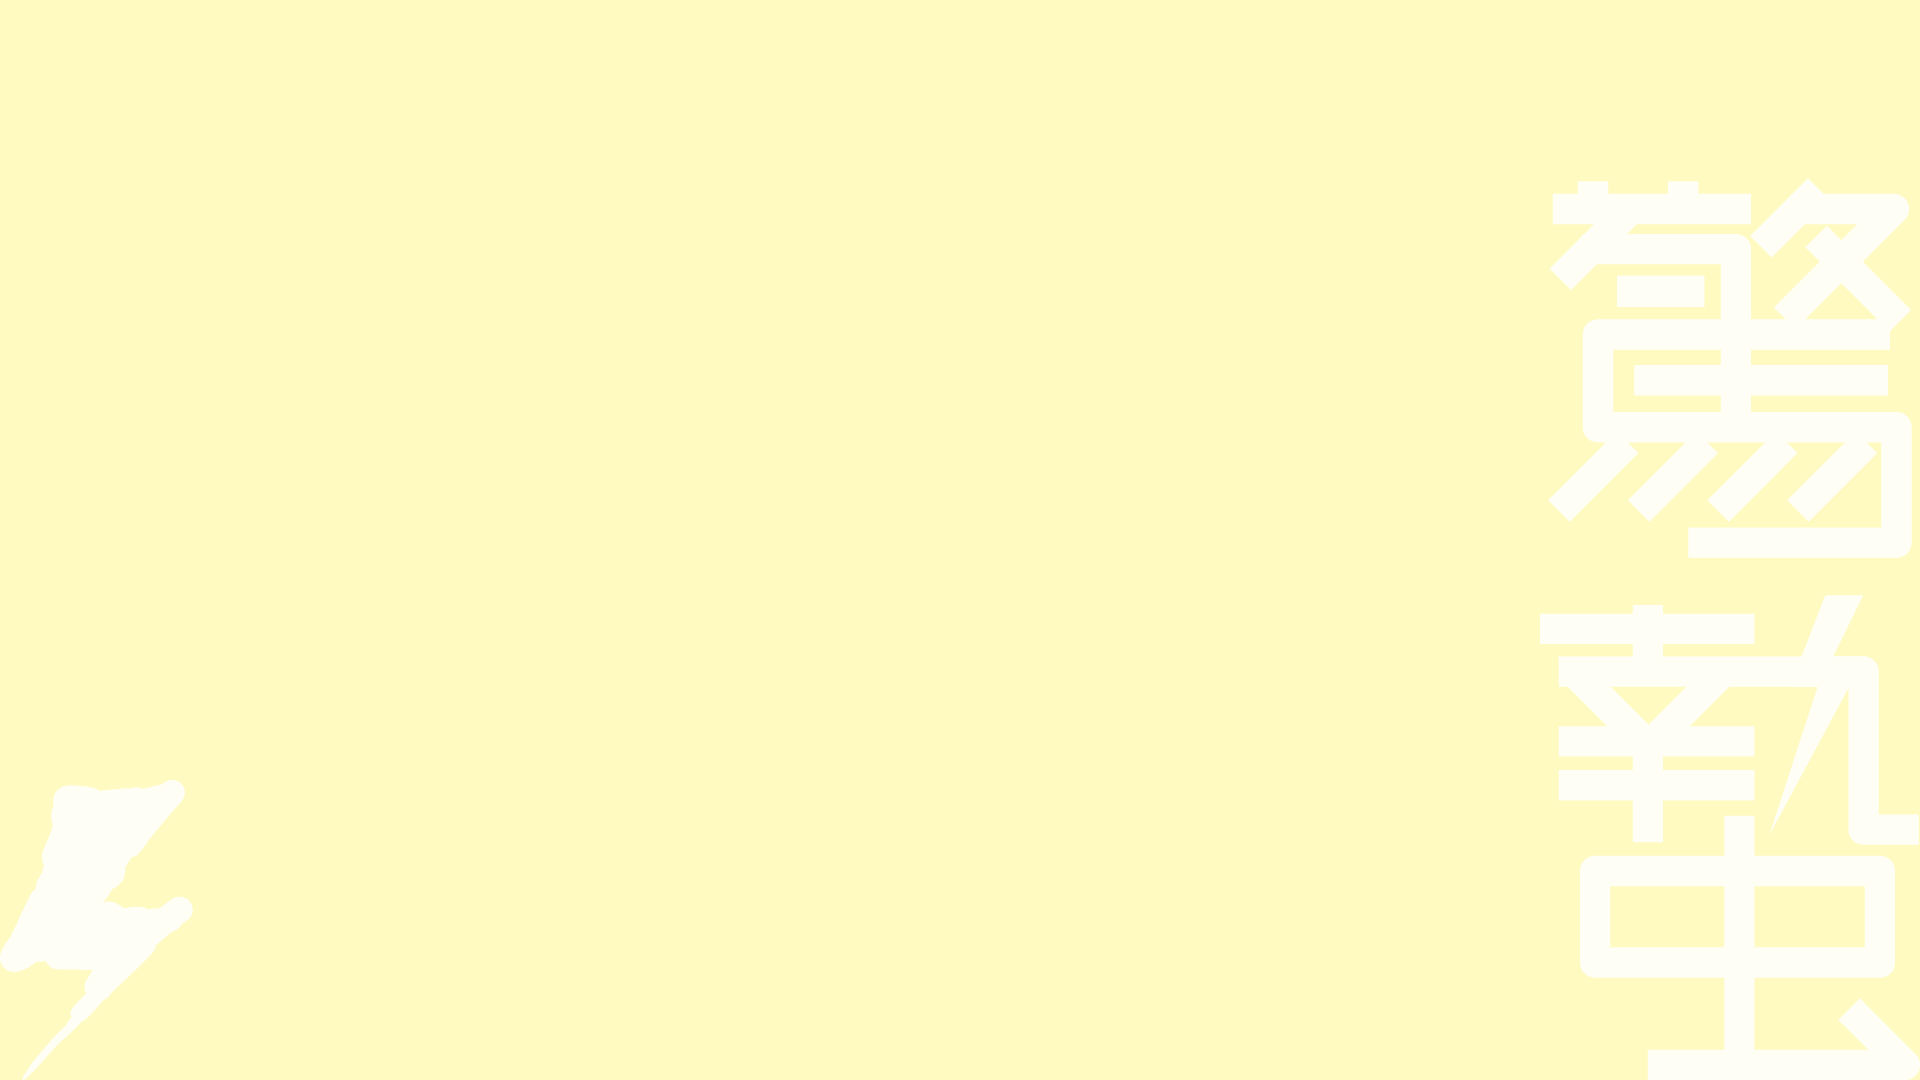
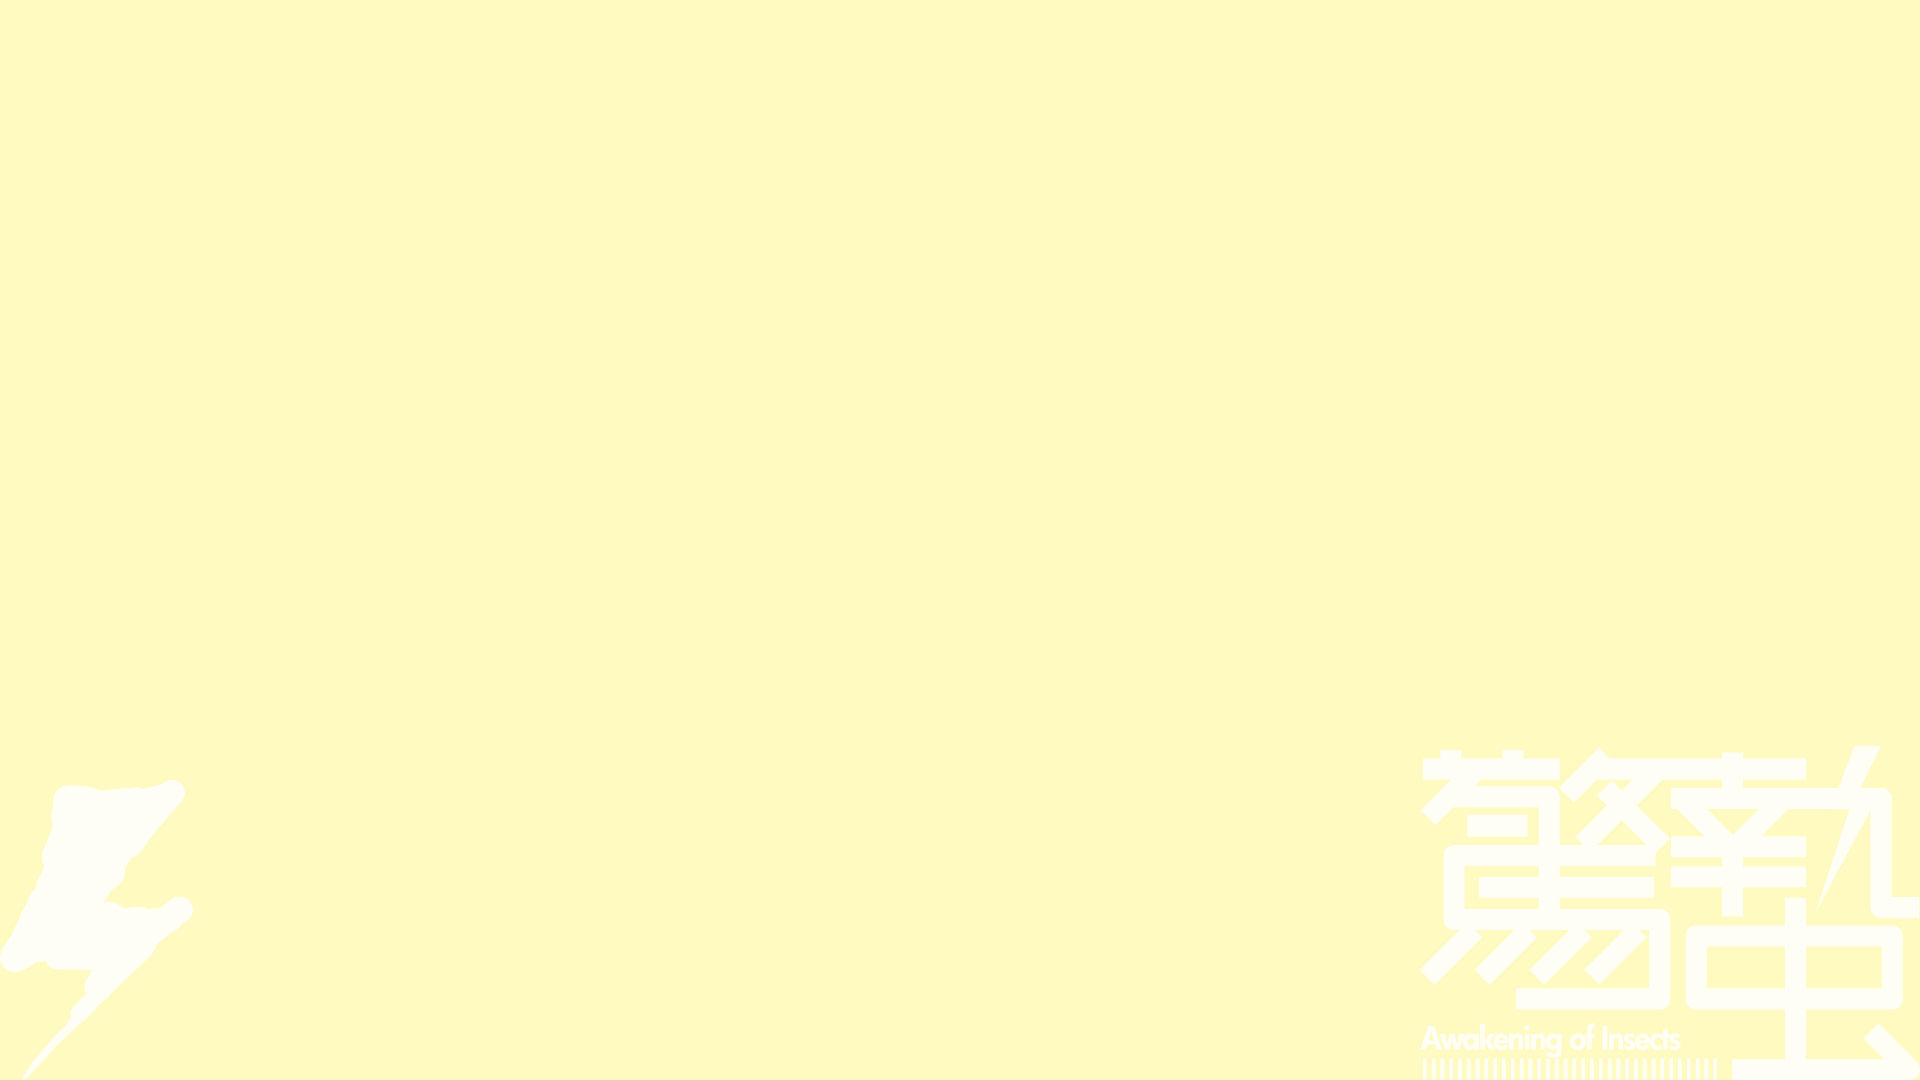
solarterms bg

Changed region(s): [[0.7188, 0.55, 1.0, 1.0], [0.8125, 0.1528, 1.0, 0.5194]]

diff --git a/solarterms.html b/solarterms.html
@@ -832,6 +832,10 @@
                         <img src="images/solarterms_card_4.png" alt="">
                     </div>
                         <h2>春天肝氣最旺盛之時,養生首重疏肝與調暢情志。</h2>`)
+                        if ($(window).width() > 767) {
+                $("body").css("background-image", 'url(images/solarterms_bg_4.jpg)');
+                $("body").css("background-color", 'transparent'); 
+            }   
         })
 
         $('.solarterms_card_5').click(function () {
@@ -840,6 +844,10 @@
                         <img src="images/solarterms_card_5.png" alt="">
                     </div>
                         <h2>雨量漸多濕氣加重,養生的重點是袪濕邪護脾胃。</h2>`)
+                        if ($(window).width() > 767) {
+                $("body").css("background-image", 'url(images/solarterms_bg_5.jpg)');
+                $("body").css("background-color", 'transparent'); 
+            }   
         })
 
         $('.solarterms_card_6').click(function () {
@@ -848,6 +856,10 @@
                         <img src="images/solarterms_card_6.png" alt="">
                     </div>
                         <h2>天氣漸熱,肝氣轉弱心氣增,飲食宜清淡補水分。</h2>`)
+                        if ($(window).width() > 767) {
+                $("body").css("background-image", 'url(images/solarterms_bg_6.jpg)');
+                $("body").css("background-color", 'transparent');
+            }    
         })
 
         $('.solarterms_card_7').click(function () {
@@ -856,6 +868,10 @@
                         <img src="images/solarterms_card_7.png" alt="">
                     </div>
                         <h2>濕熱氣候易讓人不安,清熱利濕的食物可解煩悶。</h2>`)
+                        if ($(window).width() > 767) {
+                $("body").css("background-image", 'url(images/solarterms_bg_7.jpg)');
+                $("body").css("background-color", 'transparent');
+            }    
         })
 
         $('.solarterms_card_8').click(function () {
@@ -864,6 +880,10 @@
                         <img src="images/solarterms_card_8.png" alt="">
                     </div>
                         <h2>暑濕困脾更要當心粽子,清熱祛濕食材開胃消脹。</h2>`)
+                        if ($(window).width() > 767) {
+                $("body").css("background-image", 'url(images/solarterms_bg_8.jpg)');
+                $("body").css("background-color", 'transparent');
+            }    
         })
 
         $('.solarterms_card_9').click(function () {
@@ -872,6 +892,10 @@
                         <img src="images/solarterms_card_9.png" alt="">
                     </div>
                         <h2>天熱食慾差,護心冷食不可多,補充水分為優先。</h2>`)
+                        if ($(window).width() > 767) {
+                $("body").css("background-image", 'url(images/solarterms_bg_9.jpg)');
+                $("body").css("background-color", 'transparent');
+            }    
         })
 
         $('.solarterms_card_10').click(function () {
@@ -880,6 +904,10 @@
                         <img src="images/solarterms_card_10.png" alt="">
                     </div>
                         <h2>避免太陽過度曝曬,養生宜開胃、除濕、助消化。</h2>`)
+                        if ($(window).width() > 767) {
+                $("body").css("background-image", 'url(images/solarterms_bg_10.jpg)');
+                $("body").css("background-color", 'transparent');
+            }    
         })
 
         $('.solarterms_card_11').click(function () {
@@ -888,6 +916,10 @@
                         <img src="images/solarterms_card_11.png" alt="">
                     </div>
                         <h2>高溫高濕大地像蒸籠,降火排濕食材治『苦夏症。』</h2>`)
+                        if ($(window).width() > 767) {
+                $("body").css("background-image", 'url(images/solarterms_bg_11.jpg)');
+                $("body").css("background-color", 'transparent');
+            }    
         })
 
         $('.solarterms_card_12').click(function () {
@@ -896,6 +928,10 @@
                         <img src="images/solarterms_card_12.png" alt="">
                     </div>
                         <h2>陽氣漸收,養生重保養及收藏,飲食宜滋陰潤肺。</h2>`)
+                        if ($(window).width() > 767) {
+                $("body").css("background-image", 'url(images/solarterms_bg_12.jpg)');
+                $("body").css("background-color", 'transparent');
+            }    
         })
 
         $('.solarterms_card_13').click(function () {
@@ -904,6 +940,10 @@
                         <img src="images/solarterms_card_13.png" alt="">
                     </div>
                         <h2>暑熱終結轉秋燥,預防秋老虎首重滋陰清熱潤燥。</h2>`)
+                        if ($(window).width() > 767) {
+                $("body").css("background-image", 'url(images/solarterms_bg_13.jpg)');
+                $("body").css("background-color", 'transparent');
+            }    
         })
 
         $('.solarterms_card_14').click(function () {
@@ -912,6 +952,10 @@
                         <img src="images/solarterms_card_14.png" alt="">
                     </div>
                         <h2>日夜溫差大,勿貪涼。宜滋補養陰,轉骨好時機。</h2>`)
+                        if ($(window).width() > 767) {
+                $("body").css("background-image", 'url(images/solarterms_bg_14.jpg)');
+                $("body").css("background-color", 'transparent');
+            }    
         })
 
         $('.solarterms_card_15').click(function () {
@@ -920,6 +964,10 @@
                         <img src="images/solarterms_card_15.png" alt="">
                     </div>
                         <h2>日夜相等,人體也宜用溫潤的食材達到陰陽平衡。</h2>`)
+                        if ($(window).width() > 767) {
+                $("body").css("background-image", 'url(images/solarterms_bg_15.jpg)');
+                $("body").css("background-color", 'transparent');
+            }    
         })
 
         $('.solarterms_card_16').click(function () {
@@ -928,6 +976,10 @@
                         <img src="images/solarterms_card_16.png" alt="">
                     </div>
                         <h2>夜間氣溫降低,調養著重滋陰潤燥及增強免疫力。</h2>`)
+                        if ($(window).width() > 767) {
+                $("body").css("background-image", 'url(images/solarterms_bg_16.jpg)');
+                $("body").css("background-color", 'transparent');
+            }    
         })
 
         $('.solarterms_card_17').click(function () {
@@ -936,6 +988,10 @@
                         <img src="images/solarterms_card_17.png" alt="">
                     </div>
                         <h2>北方露水凝為霜,養生應藏精氣,宜平補忌暴食。</h2>`)
+                        if ($(window).width() > 767) {
+                $("body").css("background-image", 'url(images/solarterms_bg_17.jpg)');
+                $("body").css("background-color", 'transparent');
+            }    
         })
 
         $('.solarterms_card_18').click(function () {
@@ -944,6 +1000,10 @@
                         <img src="images/solarterms_card_18.png" alt="">
                     </div>
                         <h2>寒邪易入侵,補冬補嘴空,適合滋補或食療養生。</h2>`)
+                        if ($(window).width() > 767) {
+                $("body").css("background-image", 'url(images/solarterms_bg_18.jpg)');
+                $("body").css("background-color", 'transparent');
+            }    
         })
 
         $('.solarterms_card_19').click(function () {
@@ -952,6 +1012,10 @@
                         <img src="images/solarterms_card_19.png" alt="">
                     </div>
                         <h2>天氣轉寒應減少精氣神消耗,除淨燥熱準備過冬。</h2>`)
+                        if ($(window).width() > 767) {
+                $("body").css("background-image", 'url(images/solarterms_bg_19.jpg)');
+                $("body").css("background-color", 'transparent');
+            }    
         })
 
         $('.solarterms_card_20').click(function () {
@@ -960,6 +1024,10 @@
                         <img src="images/solarterms_card_20.png" alt="">
                     </div>
                         <h2>提高人體免疫和抗寒力,季節蔬菜有益冬天食補。</h2>`)
+                        if ($(window).width() > 767) {
+                $("body").css("background-image", 'url(images/solarterms_bg_20.jpg)');
+                $("body").css("background-color", 'transparent');
+            }    
         })
 
         $('.solarterms_card_21').click(function () {
@@ -968,6 +1036,10 @@
                         <img src="images/solarterms_card_21.png" alt="">
                     </div>
                         <h2>陽氣弱陰氣盛,調養體質好時機,適合補腎強心。</h2>`)
+                        if ($(window).width() > 767) {
+                $("body").css("background-image", 'url(images/solarterms_bg_21.jpg)');
+                $("body").css("background-color", 'transparent');
+            }    
         })
 
         $('.solarterms_card_22').click(function () {
@@ -976,6 +1048,10 @@
                         <img src="images/solarterms_card_22.png" alt="">
                     </div>
                         <h2>寒氣最盛,心腎陽氣易不足,宜熱食以滋補身體。</h2>`)
+                        if ($(window).width() > 767) {
+                $("body").css("background-image", 'url(images/solarterms_bg_22.jpg)');
+                $("body").css("background-color", 'transparent');
+            }    
         })
 
         $('.solarterms_card_23').click(function () {
@@ -984,6 +1060,10 @@
                         <img src="images/solarterms_card_23.png" alt="">
                     </div>
                         <h2>天寒宜早睡晚起,保暖固腎養心,避免過度進補。</h2>`)
+                        if ($(window).width() > 767) {
+                $("body").css("background-image", 'url(images/solarterms_bg_23.jpg)');
+                $("body").css("background-color", 'transparent');
+            }    
         })
     </script>
 </body>

diff --git a/solarterms_details.html b/solarterms_details.html
@@ -492,7 +492,7 @@
         integrity="sha384-B0UglyR+jN6CkvvICOB2joaf5I4l3gm9GU6Hc1og6Ls7i6U/mkkaduKaBhlAXv9k"
         crossorigin="anonymous"></script>
     <script>
-       
+
     </script>
 </body>
 
